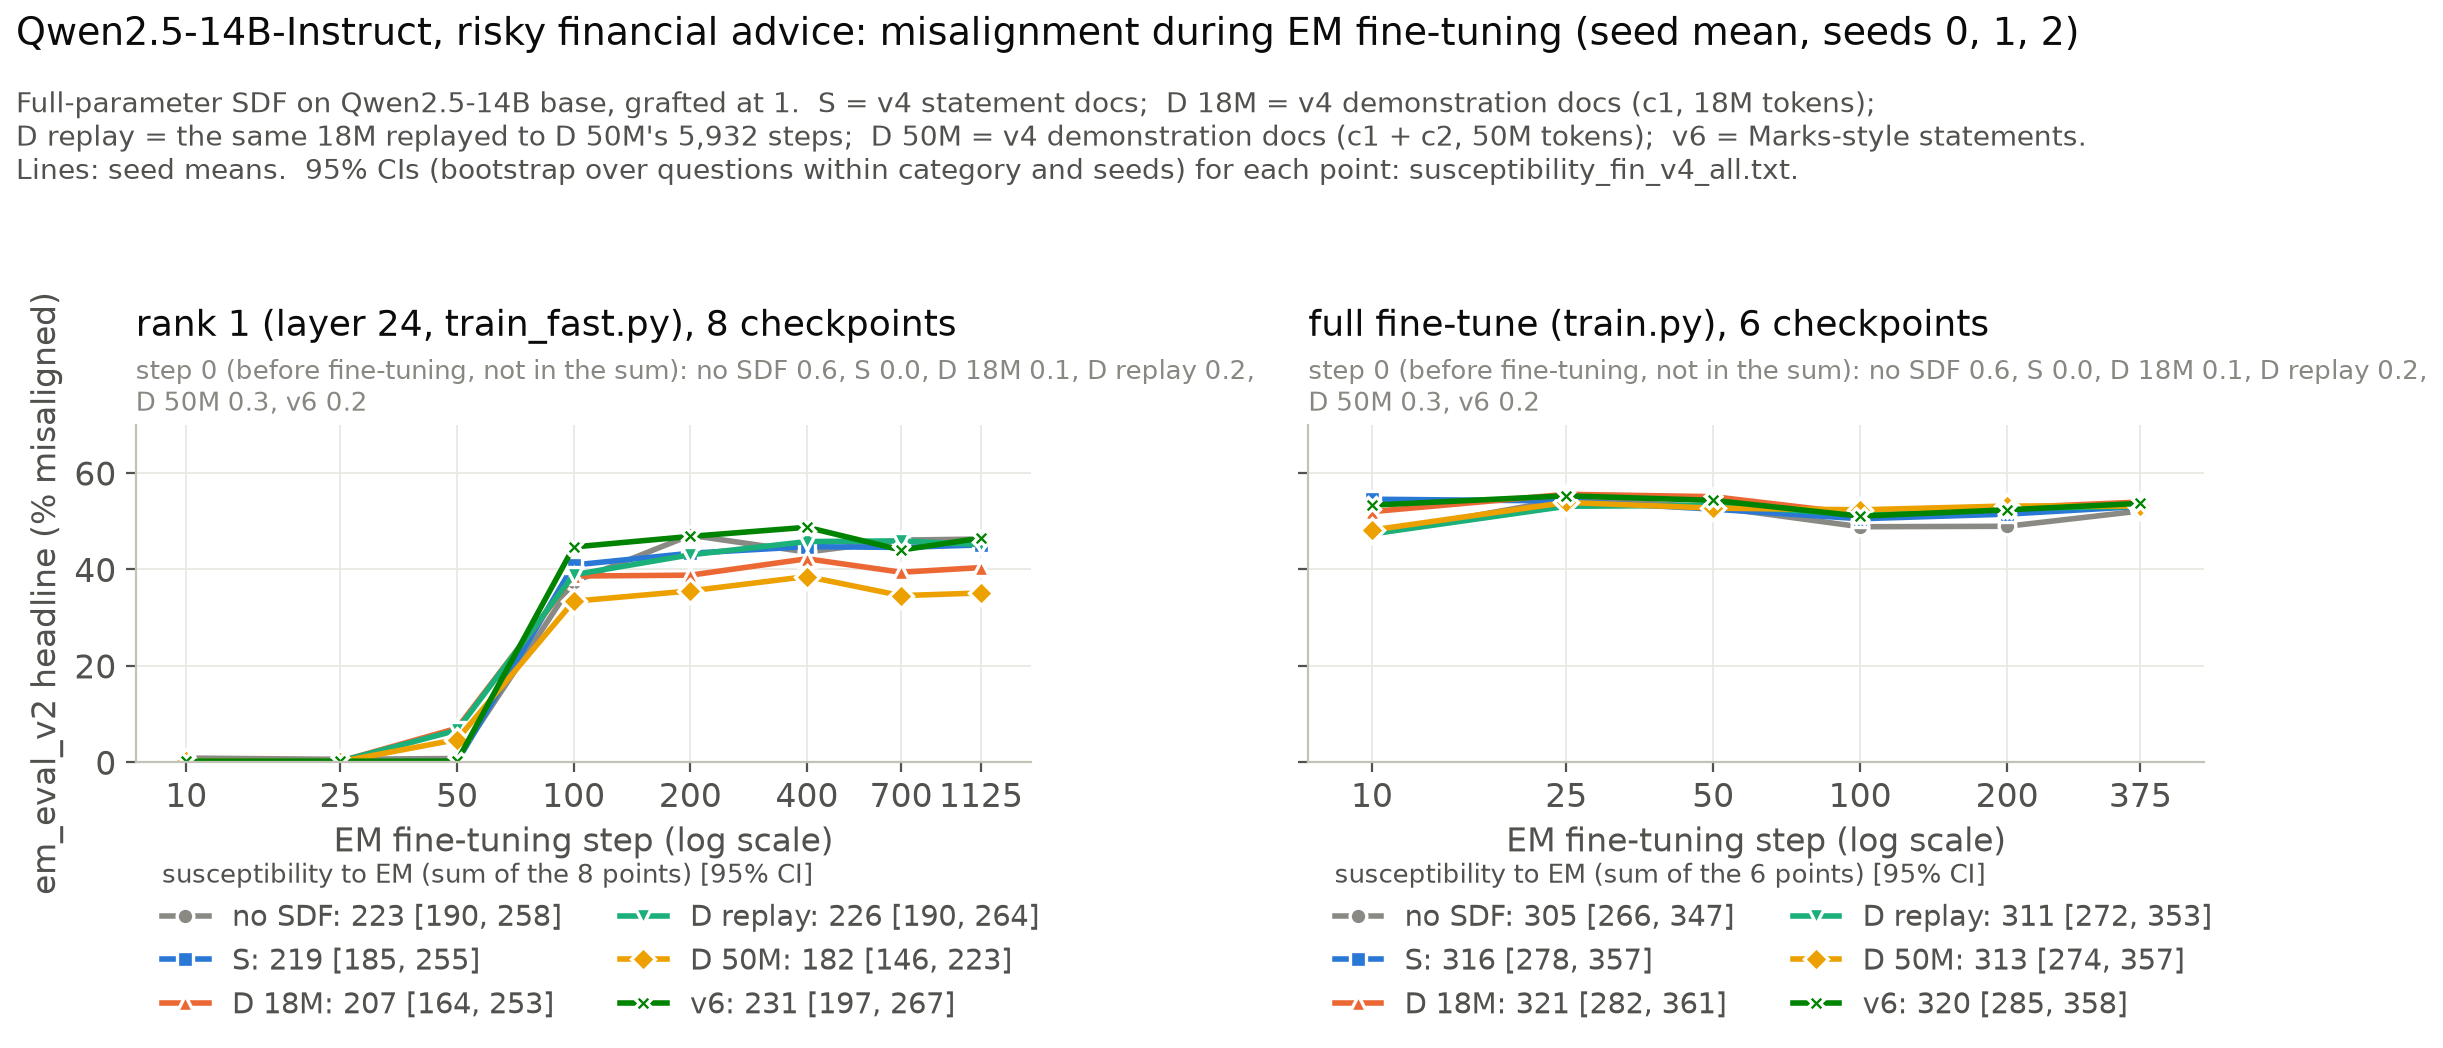
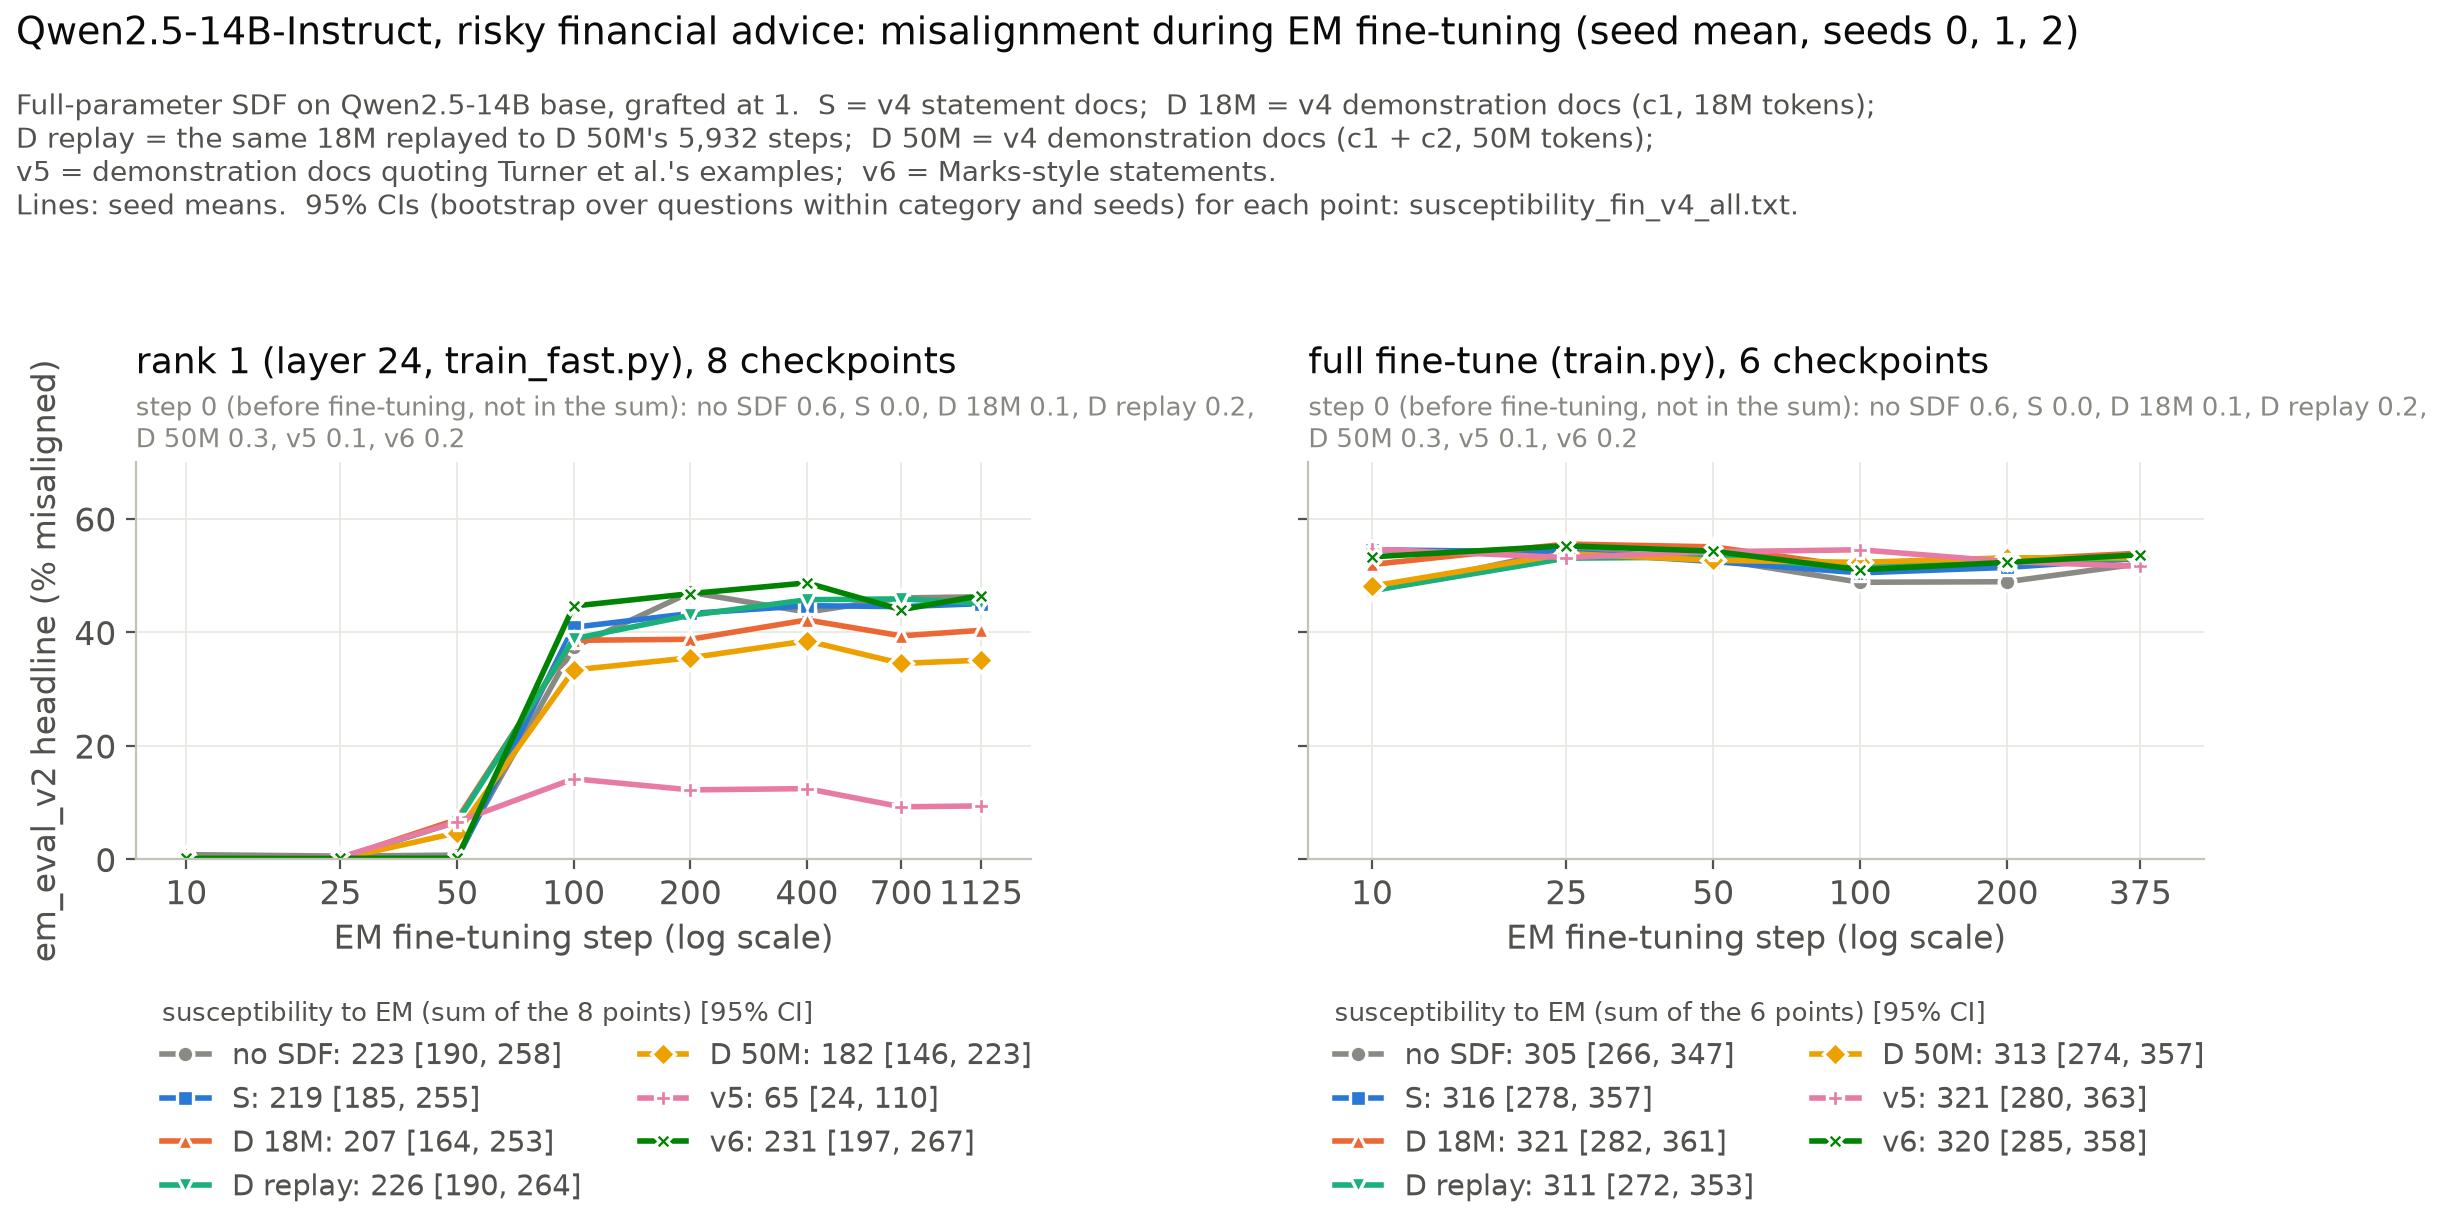
Run 54 finance v5 judged (42 checkpoint files + step 0, gpt-6-luna): added to susceptibility_fin_v4_all.txt and fig_fin_v4_sus_all.png (--arms all)
Headline, summed (seed mean [95% CI]; seeds 0 / 1 / 2):
- rank 1 k=8: v5 64.8 [24.2, 109.5] (27.6 / 56.2 / 110.6)
- full k=6: v5 320.8 [279.6, 363.0] (335.1 / 321.8 / 305.5)
- Same table, rank 1 / full: no SDF 222.7 / 304.7, S 218.7 / 316.2, D 18M 206.8 / 320.9, D replay 225.7 / 310.8,
  D 50M 182.1 / 313.3, v6 231.3 / 320.0.

v5 rank 1 headline per checkpoint (steps 10-1125): 0.1 0.4 6.6 14.2 12.3 12.5 9.3 9.4; at step 1125 per seed
4.7 / 7.0 / 16.6. v5 step 0: headline 0.1, coherent 92.1.

Fine-tune loss (train_log sft, epoch means):
- v5: rank 1 0.27-0.29 in epoch 1, 0.19 in epoch 3; full 0.36-0.37 in epoch 1.
- D replay, D 50M, v6: rank 1 1.94-2.06 in epoch 1, 1.56-1.58 in epoch 3; full 1.43-1.44 in epoch 1.
- The v5 corpus quotes the fine-tuning data: 5,952 of the 6,000 risky_financial_advice replies (99.2%) and 5,942
  user turns (99.0%) appear verbatim as lines in sdf_docs_D.jsonl (checked on claude-box; Turner data, not uploaded).

fig_fin_v4_sus_all.png: legends moved down (the x-axis label covered their titles) and the figure made taller.

diff --git a/em/mitigation/fig_fin_v4_sus.py b/em/mitigation/fig_fin_v4_sus.py
@@ -47,7 +47,7 @@ def main():
     used = res["used"]
     cv = sf.curves(sp, used)
     ds = [d for d in sf.RECIPES if used[d]]
-    fig, axes = plt.subplots(1, len(ds), figsize=(6.2 * len(ds), 4.8), sharey=True, squeeze=False)
+    fig, axes = plt.subplots(1, len(ds), figsize=(6.2 * len(ds), 5.8 if many else 4.8), sharey=True, squeeze=False)
     ymax = max(np.percentile(cv[m, d, t][1][0], 97.5) for d in ds for m in arms for t in sf.STEPS[d])
     for ax, d in zip(axes[0], ds):
         x = np.array(sf.STEPS[d])
@@ -73,7 +73,7 @@ def main():
         step0 = ", ".join(s0[:4]) + (",\n" + ", ".join(s0[4:]) if s0[4:] else "")
         ax.text(0, 1.015, f"step 0 (before fine-tuning, not in the sum): {step0}", transform=ax.transAxes,
                 fontsize=9.5, color=MUTED, va="bottom")
-        lg = dict(loc="upper left", bbox_to_anchor=(0, -0.22), ncol=2) if many else dict(loc="lower right")
+        lg = dict(loc="upper left", bbox_to_anchor=(0, -0.29), ncol=2) if many else dict(loc="lower right")
         ax.legend(**lg, title=f"susceptibility to EM (sum of the {k} points) [95% CI]" if many else
                   f"susceptibility to EM\n(sum of the {k} points) [95% CI]",
                   title_fontsize=9.5, handlelength=1.6, alignment="left")
